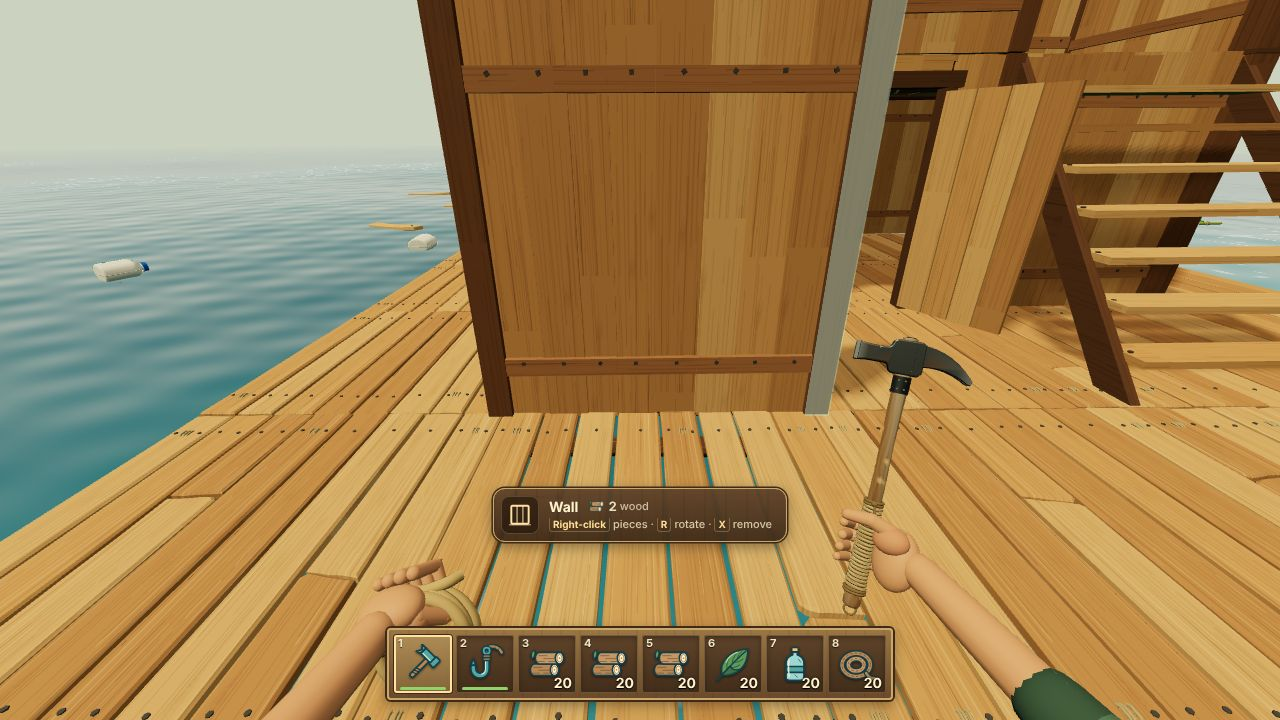
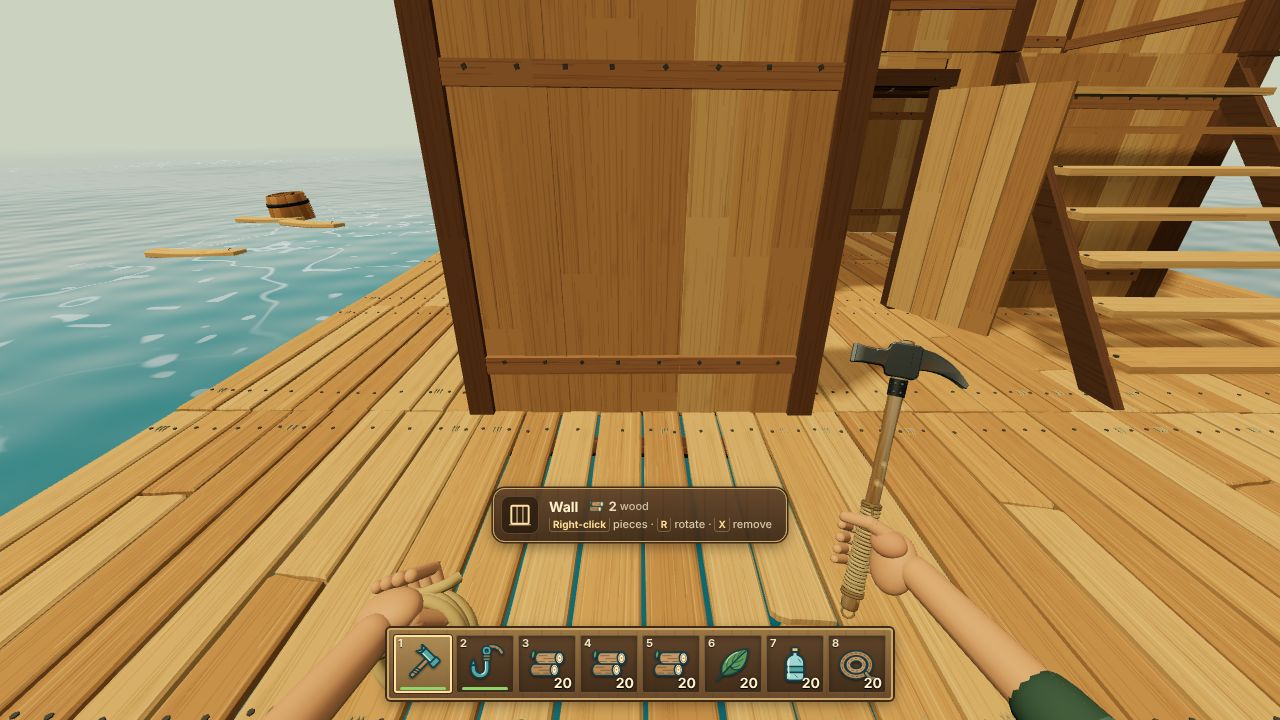
Document building pieces lane, final QA shots, lower build chip

Changed region(s): [[0.0, 0.0, 1.0, 1.0], [0.5312, 0.0, 0.625, 0.0917]]

diff --git a/dist/building-models.js b/dist/building-models.js
@@ -13,6 +13,7 @@ export const LEVEL_H = 2.2;
 const PLANKS = ['#bb8a53', '#c69860', '#ad7c4a'];
 const BEAM = '#5e4029', POST = '#6e4a2e', BATTEN = '#946640', ROPE = '#a8946c', NAIL = '#4b4844';
 const STRAW = ['#c9a85a', '#b8954a', '#d4b46a'], LEAF = ['#6f8f3a', '#5c7a30', '#86a04a'];
+const UNDER = [2.6, 1.05, 1.0]; // per-channel boost for downward faces (offsets the teal hemisphere ground light)
 const WALL_T = 0.07, POST_X = 0.15, POST_Z = 0.145, EDGE_IN = 0.925;
 
 function makeRng(key) {
@@ -35,8 +36,13 @@ function kit(T, type) {
     if (pos) n.translate(pos[0], pos[1], pos[2]);
     n.computeVertexNormals(); // flat faces: low-poly look
     col.set(hex).multiplyScalar(1 + jit(vary * 2));
-    const c = new Float32Array(n.attributes.position.count * 3);
-    for (let i = 0; i < c.length; i += 3) { c[i] = col.r; c[i + 1] = col.g; c[i + 2] = col.b; }
+    const c = new Float32Array(n.attributes.position.count * 3), ny = n.attributes.normal;
+    for (let i = 0, v = 0; i < c.length; i += 3, v++) {
+      // Downward faces only ever see the hemisphere's sea-teal ground light, which turns timber
+      // ceilings green; warm them so floor/roof undersides read as shaded wood.
+      const k = Math.max(0, -ny.getY(v));
+      c[i] = col.r * (1 + k * (UNDER[0] - 1)); c[i + 1] = col.g * (1 + k * (UNDER[1] - 1)); c[i + 2] = col.b * (1 + k * (UNDER[2] - 1));
+    }
     n.setAttribute('color', new T.BufferAttribute(c, 3));
     parts.push(n);
     return n;
@@ -170,11 +176,14 @@ function buildPillar(K, T) {
 
 function buildFloor(K, T) {
   const top = 0, TH = 0.045;
-  for (const [a, b] of columns(K, -1, 1, 8)) {
-    const a1 = a + (a <= -1 ? 0.003 : 0), b1 = b - (b >= 1 ? 0.003 : 0), xc = (a1 + b1) / 2, t = top - K.rng() * 0.008;
-    K.box(b1 - a1, TH, 1.994 - K.rng() * 0.01, xc, t - TH / 2, K.jit(0.004), K.pick(PLANKS), [0, K.jit(0.004), K.jit(0.02)]);
+  columns(K, -1, 1, 8).forEach(([a, b], k) => {
+    // Inner plank edges overlap their neighbour (alternately stepped 4 mm) so no light shows through the
+    // ceiling below; the outer edges stay inside the cell.
+    const a1 = a <= -1 ? a + 0.003 : a - 0.006, b1 = b >= 1 ? b - 0.003 : b + 0.006, xc = (a1 + b1) / 2;
+    const t = top - (k % 2 ? 0.004 : 0) - K.rng() * 0.003;
+    K.box(b1 - a1, TH, 1.994 - K.rng() * 0.01, xc, t - TH / 2, K.jit(0.004), K.pick(PLANKS), [0, K.jit(0.004), K.jit(0.008)]);
     for (const z of [-0.72, 0.72]) nail(K, xc + K.jit(0.06), t + 0.002, z + K.jit(0.04), true);
-  }
+  });
   for (const z of [-0.72, 0.72]) {
     const g = new T.CylinderGeometry(0.042, 0.045, 1.98, 7, 1);
     const uv = g.attributes.uv; for (let i = 0; i < uv.count; i++) uv.setXY(i, uv.getX(i) * 1.5, uv.getY(i));

diff --git a/dist/build-menu.js b/dist/build-menu.js
@@ -55,7 +55,7 @@ const CSS = `
 .bm-req.bm-short{color:#ff9f86}
 .bm-req.bm-short svg{opacity:.5;filter:grayscale(.7)}
 .bm-free{font:600 12px/1 ${FONT};color:#d9c9a6}
-.bm-chip{position:fixed;left:50%;bottom:var(--bm-chip-bottom,178px);z-index:3;transform:translateX(-50%);display:flex;align-items:center;gap:10px;
+.bm-chip{position:fixed;left:50%;bottom:var(--bm-chip-bottom,104px);z-index:3;transform:translateX(-50%);display:flex;align-items:center;gap:10px;
   padding:7px 14px 7px 7px;border-radius:12px;pointer-events:none;max-width:calc(100vw - 32px);
   background:repeating-linear-gradient(90deg,#0000000f 0 2px,transparent 2px 21px),linear-gradient(#5d4129f0,#3d2a19f0);
   border:1.5px solid #c9a66b;box-shadow:0 0 0 1.5px #3e2a17,0 4px 14px #0006;color:#fff2cc;font:500 13px/1.25 ${FONT};transition:opacity .12s}
@@ -69,7 +69,7 @@ const CSS = `
 .bm-hint kbd{font:700 10px/1 ${FONT};color:#ffdd95;border:1px solid #e0bd7155;border-radius:3px;padding:1px 3px}
 .bm-status{display:block;margin-top:3px;font:700 12px/1.2 ${FONT};color:#ffab8f}
 .bm-status:empty{display:none}
-@media(max-width:760px){.bm-chip{--bm-chip-bottom:150px;gap:8px;padding:5px 10px 5px 5px}.bm-chip>i{width:32px;height:32px}.bm-chip>i svg{width:22px;height:22px}
+@media(max-width:760px){.bm-chip{--bm-chip-bottom:118px;gap:8px;padding:5px 10px 5px 5px}.bm-chip>i{width:32px;height:32px}.bm-chip>i svg{width:22px;height:22px}
   .bm-mid b{font-size:14px;margin:3px 0 5px}.bm-req{font-size:12px}.bm-req em{display:none}.bm-mid small{font-size:8.5px}}
 @media(prefers-reduced-motion:reduce){.bm-wheel{transition:none}}`;
 

diff --git a/scripts/shoot-building.py b/scripts/shoot-building.py
@@ -61,8 +61,10 @@ try { Object.defineProperty(Element.prototype, 'requestPointerLock', {value: und
 report = {'errors': [], 'console': [], 'shots': [], 'checks': {}}
 
 def log(*a): print(*a, file=sys.stderr, flush=True)
-def shot(page, name, note=''):
+def shot(page, name, note='', aim=False):
     log('shot', name)
+    if not aim:  # scenic shot: drop the screen-aim so no build ghost floats in the picture
+        page.evaluate("document.querySelector('#world')?.dispatchEvent(new PointerEvent('pointerleave'))"); page.wait_for_timeout(700)
     p = out / f'{name}.jpg'; page.screenshot(path=str(p), type='jpeg', quality=80)
     report['shots'].append({'file': str(p), 'note': note})
 
@@ -117,14 +119,20 @@ with sync_playwright() as pw:
         me = S()['me']; d = math.hypot(x - me['x'], z - me['z'])
         look(math.atan2(-(x - me['x']), -(z - me['z'])), math.atan2(y - me['y'], d))
 
-    def walk_to(x, z, tol=0.25, tries=40):
+    def walk_to(x, z, tol=0.3, tries=6):
+        """Hold W towards (x, z), re-aiming as it goes (software GL runs at a few fps, so poll the sim, not the clock)."""
         for _ in range(tries):
-            me = S()['me']; d = math.hypot(x - me['x'], z - me['z'])
-            if d < tol: return True
+            me = S()['me']
+            if math.hypot(x - me['x'], z - me['z']) < tol: return True
+            face(x, z, 0); page.keyboard.down('KeyW')
+            for _ in range(120):
+                page.wait_for_timeout(60)
+                me = page.evaluate('raftDebug.state.me'); dx, dz = x - me['x'], z - me['z']; d = math.hypot(dx, dz)
+                if d < tol: break
+                fx, fz = -math.sin(me['yaw']), -math.cos(me['yaw'])
+                if (fx * dx + fz * dz) / d < 0.9: break  # drifted (or overshot): stop and re-aim
+            page.keyboard.up('KeyW'); page.wait_for_timeout(150)
             log('walk', round(me['x'], 2), round(me['z'], 2), '->', x, z)
-            face(x, z, 0)
-            page.keyboard.down('KeyW'); page.wait_for_timeout(int(min(d / 2.6, 0.6) * 1000 * 0.8) + 40); page.keyboard.up('KeyW')
-            page.wait_for_timeout(120)
         return False
 
     def aim_at(x, y, z):
@@ -138,7 +146,7 @@ with sync_playwright() as pw:
         r = page.evaluate("(()=>{const e=document.querySelector('.bm-wheel').getBoundingClientRect();return {x:e.left+e.width/2,y:e.top+e.height/2,s:e.width/400}})()")
         a = idx * 2 * math.pi / n
         page.mouse.move(r['x'] + 137 * r['s'] * math.sin(a), r['y'] - 137 * r['s'] * math.cos(a), steps=4); page.wait_for_timeout(300)
-        if hold_shot: shot(page, *hold_shot)
+        if hold_shot: shot(page, *hold_shot, aim=True)
         page.mouse.up(button='right'); page.wait_for_timeout(200)
 
     ORDER = ['foundation', 'floor', 'wall', 'halfwall', 'window', 'door', 'pillar', 'stairs', 'roof']
@@ -148,6 +156,8 @@ with sync_playwright() as pw:
     shot(page, '01-exterior-corner', 'three-quarter view of the 2-storey house from the front-right deck corner')
     walk_to(-4.2, 3.6); look_at(1, 2.6, -3); page.wait_for_timeout(700)
     shot(page, '01b-exterior-left', 'view from the front-left corner (west window, balcony railing, roof)')
+    walk_to(-2.6, 0.9); look_at(-1, 1.7, -1.3); page.wait_for_timeout(700)
+    shot(page, '07-corner-joint', 'close-up of the front-left corner: pillar, wall/door/window joints, storey line')
 
     # (3) radial wheel open, hovering "wall"; release picks it
     walk_to(-2, 3.6); look(0, -0.45); page.wait_for_timeout(400)
@@ -156,7 +166,7 @@ with sync_playwright() as pw:
 
     # (2) ghost: valid wall slot on the deck (edge (-1,1,0): x in [-3,-1], z=1)
     aim_at(-2, DECK + 0.02, 1); page.wait_for_timeout(400)
-    shot(page, '02-ghost-valid-wall', 'green ghost wall on an empty deck edge')
+    shot(page, '02-ghost-valid-wall', 'green ghost wall on an empty deck edge', aim=True)
     # real placement: click without moving
     before = S(); w0 = before['stock'].get('wood', 0); n0 = len(before['pieces']['list'])
     page.mouse.down(); page.mouse.up(); page.wait_for_timeout(600)
@@ -169,7 +179,7 @@ with sync_playwright() as pw:
     # (6) removal highlight: hold X while aiming at the new wall, then release to remove + refund
     page.keyboard.down('KeyX'); aim_at(-2, DECK + 1.1, 1); page.wait_for_timeout(500)
     report['checks']['removingFlag'] = S()['pieces']['removing']
-    shot(page, '06-remove-highlight', 'holding X: red highlight on the wall about to be removed')
+    shot(page, '06-remove-highlight', 'holding X: red highlight on the wall about to be removed', aim=True)
     page.keyboard.up('KeyX'); page.wait_for_timeout(600)
     rem = S(); report['checks']['remove'] = {'piecesAfter': len(rem['pieces']['list']), 'woodAfter': rem['stock'].get('wood', 0),
         'refunded': rem['stock'].get('wood', 0) - w1, 'stillThere': [p for p in added if p in rem['pieces']['list']]}
@@ -178,7 +188,7 @@ with sync_playwright() as pw:
     walk_to(-4.4, 2.0); look(math.pi / 2, -0.25); page.wait_for_timeout(300)
     s = aim_at(-9.8, DECK, 2.0); page.wait_for_timeout(400)
     report['checks']['invalidAimScreen'] = s
-    shot(page, '02b-ghost-invalid-wall', 'red ghost: wall slot over the water has no support')
+    shot(page, '02b-ghost-invalid-wall', 'red ghost: wall slot over the water has no support', aim=True)
     report['checks']['invalidChip'] = page.evaluate("document.querySelector('.bm-chip .bm-status')?.textContent")
 
     # (5) interior through the door
@@ -187,12 +197,14 @@ with sync_playwright() as pw:
     shot(page, '05-door-from-deck', 'front door (open leaf) with the room behind it')
     walk_to(0, 0.6); look(0, -0.12); page.wait_for_timeout(600)
     shot(page, '05b-through-door', 'looking through the doorway into the ground-floor room')
-    walk_to(0, -1.6, tries=30); walk_to(0.3, -2.6, tries=20); look_at(2.6, 1.2, -4.6); page.wait_for_timeout(600)
+    walk_to(0, -1.6); walk_to(0.3, -2.6); look_at(2.6, 1.2, -4.6); page.wait_for_timeout(600)
     report['checks']['insidePos'] = S()['me']
     shot(page, '05c-interior', 'inside the ground-floor room: east window, walls, floor joists overhead')
 
     # (4) walk out and up the stairs onto the balcony
-    walk_to(0, -1.4, tries=20); walk_to(0, 1.6, tries=30); walk_to(2, 2.8, tries=30)
+    walk_to(0, -1.4); walk_to(0, 1.6); walk_to(4.3, 1.8); look_at(2, 1.0, -0.2); page.wait_for_timeout(700)
+    shot(page, '08-stairs-side', 'stairs from the side: stringers, treads, landing onto the balcony')
+    walk_to(2, 2.8, tol=0.15)
     look(0, 0)
     page.keyboard.down('KeyW')
     for _ in range(60):
@@ -206,6 +218,8 @@ with sync_playwright() as pw:
     shot(page, '04-upper-floor-room', 'on the balcony after climbing the stairs: upper-room door + window, roof above')
     look(math.pi, -0.35); page.wait_for_timeout(500)
     shot(page, '04b-upper-floor-view', 'looking back from the balcony: railing, stair opening, deck below')
+    look_at(-1, 3.5, -1.4); page.wait_for_timeout(500)
+    shot(page, '04c-balcony-side', 'balcony corner: half-wall railing, pillar, upper-room wall and roof eave')
 
     report['frameMs'] = page.evaluate("""new Promise(r=>{let n=0,t0=performance.now();function f(){if(++n<60)requestAnimationFrame(f);else r((performance.now()-t0)/n)}requestAnimationFrame(f)})""")
     b.close()

diff --git a/docs/cloud/building-pieces.md b/docs/cloud/building-pieces.md
@@ -1,0 +1,110 @@
+# Building pieces lane
+
+Raft-style multi-storey building with the hammer. You can place floors, walls, half walls, windows, doors, pillars, stairs and roofs. Pieces snap to the raft grid. A green or red ghost shows the spot, R rotates, and holding then releasing X removes a piece. Removal gives back the full cost (friendly). Pieces save and load, and sync in co-op. All art is original and procedural, in the same wood style as `deck.js`.
+
+![exterior](shots/building-pieces/01-exterior-corner.jpg)
+
+## Controls (hammer in hand)
+| Input | Action |
+|---|---|
+| Hold **right mouse** (or tap **Q**) | Opens the build wheel. Move the mouse toward a piece, then release or click to pick it. Esc, or losing pointer lock, cancels. |
+| **Left click** | Place the ghost if it is green. **Foundation** keeps the old flow: a new 2x2 tile beside the raft. |
+| **R** | Rotate stairs and roofs. The default faces away from the player. R still repairs the hook when Foundation is selected. |
+| Hold **X**, release | Remove the piece shown in red. It is refused if something rests on it. |
+
+## Files (all new)
+| File | What |
+|---|---|
+| `dist/building-pieces.js` | Pure module, no DOM and no THREE. It holds the piece data (`PIECES`, `PIECE_ORDER`, costs), the grid and keys, and the snapping and support rules (`BuildGrid.canPlace/place/canRemove/remove/load`). It also does aiming (`aim()` picks the nearest valid slot to the crosshair ray; `pick()` handles removal), collision (`preStep`/`postStep` around `PlayerPhysics.update`), and `cleanPieces` for save and network data. Hot paths make no per-frame allocations. |
+| `dist/building-models.js` | Procedural geometry for each piece type. Each type is one merged geometry with vertex colours plus one shared wood material (`createPieceGeometry`, `createPieceMaterial`). |
+| `dist/build-menu.js` | Radial wheel and HUD chip. It shows the piece, its cost (red when you can't afford it), hints, and the reason a ghost is red. DOM only. |
+| `dist/building.js` | Glue. It draws one `InstancedMesh` per piece type in a group that follows the raft, and handles the ghost, input, and host-authoritative `apply()` (charge or refund on the actor's bag). |
+| `tests/building-pieces.test.mjs` | Rules, load sanitising, aim and pick, and basic walking. |
+| `tests/building-physics.test.mjs` | Movement fuzzing with the real `PlayerPhysics` at dt 1/60 and 1/20, with the deck bobbing. Covers stairs in all 4 directions, doors, walls, corners, ledges, head bonks, and clambering past walls. |
+| `scripts/shoot-building.py` | Seeds a 2-storey house, then plays it headless: places, removes and walks up the stairs. It saves the shots below. |
+
+### Grid
+- `LEVEL_H = 2.2`.
+- Cell `(i,j)` is the existing 2x2 tile.
+- Edge `(i,j,a)`: `a=0` is the cell's −z side and `a=1` is its −x side.
+- Corner `(i,j)` is the cell's (−x,−z) corner.
+- A saved record is `{t,i,j,l,r}`.
+
+### Support rules
+- **Pillars** stand on a tile (level 0) or on a pillar or floor below.
+- **Walls** stand on a tile or floor, or on a full-height wall below.
+- **Floors and roofs** need a full-height wall or pillar under one of their edges or corners, or stairs landing in them. They may also overhang one cell from a supported floor.
+- **Stairs** need a floor or tile under them and no floor above.
+
+### Costs
+| Piece | Cost |
+|---|---|
+| floor | 2 wood |
+| wall | 2 wood |
+| half wall | 1 wood |
+| window | 2 wood |
+| door | 3 wood |
+| pillar | 1 wood |
+| stairs | 3 wood |
+| roof | 1 wood + 2 leaf |
+
+## Hooks in existing files
+Every hook in `dist/game.js` is a single line or a tiny block tagged `// building-pieces lane hook`. Run `grep -n "building-pieces lane hook" dist/game.js` to list them.
+- **Import:** `createBuilding`, `cleanPieces`.
+- **World and save:**
+  - `newWorld` gets `pieces:[]`.
+  - `cleanWorld` gets `pieces:cleanPieces(v.pieces, tiles)`.
+  - `copyWorld` copies the pieces.
+- **Scene:**
+  - `init` creates `building`.
+  - `rebuildRaft` ends with `building.sync(world)`.
+  - `disposeScene` disposes it.
+- **Movement:** `movePlayer` wraps `physics.update` with `building.preStep` (surface height and support cells) and `building.postStep` (walls, ceilings and ramps).
+- **Aim:**
+  - `useSelected`: a hammer with a non-foundation piece selected sends the `{kind:'piece'}` action.
+  - `updateGhost` calls `building.update(...)` every frame and hides the old floor ghost.
+- **Actions:** `applyAction` handles `piece` and `unpiece` through `building.apply(a, bag, world)`. The host is authoritative, and the guest's own bag pays.
+- **Network:**
+  - `hostState` sends `pieces` only when the array changes; `sentPieces` resets when a guest connects.
+  - The guest keeps its pieces when they are omitted, and only re-syncs the pieces (not the whole deck) when they change.
+- **Input:**
+  - Right-button down and up open and close the wheel.
+  - Mousemove goes to the wheel while it is open.
+  - Keydown passes R, Q, X and Esc to `building.key`; keyup X removes.
+  - Pointer-lock loss cancels the wheel.
+- **Debug:** `raftDebug.state.pieces = {list, piece, rotation, removing}`.
+
+The only other existing file changed is `package.json`: `npm test` now also runs the two new test files.
+
+## Tests
+`npm test` passes: 53 tests, 0 failures. That covers 22 survival tests, 16 rules/aim tests and 15 movement-fuzz tests. Headless QA (`python3 scripts/shoot-building.py`) checks the following:
+- All 30 seeded pieces load.
+- The wheel picks a piece.
+- Placing a wall takes 2 wood, and removing it with X refunds 2 wood.
+- A spot over water shows "Needs support below".
+- Walking up the stairs ends grounded on the upper floor (eye 4.0).
+- There are no page errors.
+
+## Screenshots (`shots/building-pieces/`)
+| Shot | Shows |
+|---|---|
+| `01-exterior-corner`, `01b-exterior-left` | The seeded 2-storey house: stairs, balcony railing and thatch roofs. |
+| `02-ghost-valid-wall`, `02b-ghost-invalid-wall`, `02c-wall-placed` | Green and red ghosts, and a placed wall. |
+| `03-radial-wheel` | The build wheel. |
+| `04-upper-floor-room`, `04b-upper-floor-view`, `04c-balcony-side` | The player after climbing the stairs. |
+| `05-door-from-deck`, `05b-through-door`, `05c-interior` | The door and the interior. |
+| `06-remove-highlight` | The X removal highlight. |
+| `07-corner-joint` | A pillar and wall joint close-up. |
+| `08-stairs-side` | The stairs from the side. |
+
+## Known limits and follow-ups
+- **Physics:** `PlayerPhysics` knows one deck height per frame, so ramps lag one frame. Lag spikes make this about 0.2 m.
+  - Clambering out of the water only reaches deck height.
+  - The clamber check against walls reads the private `_climb` fields. The new tests catch it if they are renamed.
+- **Collision gaps:**
+  - The open door leaf is decorative and has no collision.
+  - A grounded player can step over box tops within 0.55 m, which is needed for walls under the stairs' top edge. So you can step over a railing from partway up the stairs.
+- **Input:** with a non-foundation piece selected, R rotates instead of repairing the hook.
+- **Build limits:** no foundation removal, no ladders, a cap of 600 pieces, and every roof instance looks the same.
+- **Co-op:** the guest has no local prediction, so its pieces appear when the next host state arrives (about 0.12 s).
+- **QA speed:** a debug `teleport()` in `raftDebug` would make headless QA much faster than walking (currently about 12 min).
